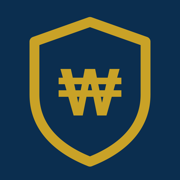
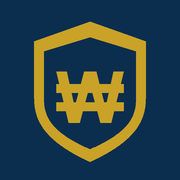
데모 모드에서 장관 탭 개방 + 스토어 문서(방침·사용안내) 추가
- 데모 중에는 장관 탭이 잠기지 않고 브리핑·로드맵까지 열린다 (심사원 진입 경로)
- privacy.html / guide.html + .nojekyll (영문 파일명 — ASC URL 필드가 한글 경로를 거부)
- 아이콘 재생성: 알파 채널 제거, 이음새 없는 국장

Changed region(s): [[0.1389, 0.0833, 0.8611, 0.9444], [0.3056, 0.3611, 0.6944, 0.6944]]

diff --git a/guide.html b/guide.html
@@ -1,0 +1,65 @@
+<!DOCTYPE html>
+<html lang="ko">
+<head>
+<meta charset="UTF-8">
+<meta name="viewport" content="width=device-width, initial-scale=1.0">
+<title>재무부 장관 — 사용 안내 · 지원</title>
+<style>
+body{font-family:-apple-system,BlinkMacSystemFont,'Apple SD Gothic Neo',sans-serif;max-width:720px;margin:0 auto;padding:32px 20px 80px;line-height:1.75;color:#191F28;background:#fff}
+h1{font-size:24px;margin:0 0 6px;letter-spacing:-.5px}
+.sub{color:#8B95A1;font-size:13.5px;margin-bottom:28px}
+h2{font-size:17px;margin:32px 0 10px;padding-top:18px;border-top:1px solid #F2F4F6}
+p,li{font-size:14.5px;color:#4E5968}
+ul,ol{padding-left:20px}
+strong{color:#191F28}
+.box{background:#F9FAFB;border-radius:12px;padding:14px 16px;font-size:14px;margin:14px 0}
+.q{font-weight:700;color:#191F28;margin-top:18px}
+a{color:#3182F6}
+code{background:#F2F4F6;border-radius:5px;padding:1px 6px;font-size:13px}
+</style>
+</head>
+<body>
+<h1>재무부 장관 — 사용 안내</h1>
+<div class="sub">내 자산을 '국정'처럼 운영하는 개인 재무 기록 앱 · 지원 문의: <a href="mailto:leoato@naver.com">leoato@naver.com</a></div>
+
+<p>매달 말 자산 화면을 캡처해 올리면, AI가 계좌별 잔액을 읽어 정리하고 전월 대비 변화를 담은 '장관 브리핑'을 써 줍니다. 모든 기록은 기기에만 저장됩니다.</p>
+
+<h2>처음 시작하기</h2>
+<ol>
+  <li><strong>둘러보기</strong> — 장관 탭 → <em>키 없이 데모로 둘러보기</em>. 가상 자료로 모든 화면을 미리 볼 수 있어요.</li>
+  <li><strong>API 키 등록</strong> — 설정(⚙) → AI API 키. Gemini·ChatGPT·Claude 중 <strong>하나만</strong> 있으면 됩니다.</li>
+  <li><strong>월말 정산</strong> — 장관 탭 → 정산 시작 → 자산 화면 캡처 선택 → 판독 결과 확인 → 브리핑 받기.</li>
+</ol>
+
+<h2>API 키는 어디서 받나요</h2>
+<ul>
+  <li><strong>Gemini</strong> — <a href="https://aistudio.google.com/apikey">aistudio.google.com/apikey</a> (키가 <code>AQ.</code> 또는 <code>AIza</code>로 시작)</li>
+  <li><strong>ChatGPT</strong> — <a href="https://platform.openai.com/api-keys">platform.openai.com/api-keys</a> (<code>sk-</code>로 시작)</li>
+  <li><strong>Claude</strong> — <a href="https://console.anthropic.com/settings/keys">console.anthropic.com</a> (<code>sk-ant-</code>로 시작)</li>
+</ul>
+<div class="box">키를 붙여넣고 <strong>검증</strong>을 누르면 어느 회사 키인지 자동으로 알아보고, 그 계정이 쓸 수 있는 <strong>가장 최신 모델</strong>을 골라 줍니다. 키는 이 기기에만 저장되며 앱 제작자에게 전송되지 않습니다.</div>
+
+<h2>자주 묻는 질문</h2>
+<div class="q">Q. 요금이 드나요?</div>
+<p>앱은 무료입니다. AI 사용료는 이용자가 등록한 본인 API 계정으로 청구됩니다(월말 정산 1회는 보통 소액). 키를 넣지 않으면 AI 기능만 잠기고 기록·통계는 그대로 씁니다.</p>
+
+<div class="q">Q. 데이터는 어디에 저장되나요?</div>
+<p>기기 안에만 저장됩니다. 서버도 계정도 없습니다. 기기를 바꾸거나 앱을 지우면 사라지니 <strong>설정 → 전체 백업(JSON)</strong>으로 파일을 보관하세요. 새 기기에서는 <strong>백업 복원</strong>으로 되돌립니다.</p>
+
+<div class="q">Q. 캡처를 올렸는데 합계가 안 맞아요.</div>
+<p>판독 확인 화면에서 숫자를 직접 고칠 수 있습니다. 합계가 캡처의 '총 자산'과 일치해야 다음으로 넘어가도록 막아 두었습니다 — 잘못된 숫자가 기록에 남지 않게 하기 위해서입니다.</p>
+
+<div class="q">Q. '키가 유효하지 않다'고 나옵니다.</div>
+<p>키가 잘린 채 복사됐거나, 사용 제한(웹사이트·IP 제한)이 걸린 키일 수 있습니다. 앱이 알려주는 문구에 원인이 함께 표시되니 그대로 따라 해 보세요. 그래도 안 되면 새 키를 발급해 주세요.</p>
+
+<div class="q">Q. 어떤 모델을 쓰나요?</div>
+<p>등록한 키의 계정에서 쓸 수 있는 모델 목록을 받아 최신·상위 모델을 자동으로 고릅니다. 모델이 단종되면 다음 요청 때 자동으로 다시 고릅니다.</p>
+
+<div class="q">Q. 데모 데이터를 지우고 싶어요.</div>
+<p>설정 → 데모 → <em>데모 데이터 지우기</em>. 내 기록만 남습니다.</p>
+
+<h2>문의</h2>
+<p>버그 제보·기능 제안: <a href="mailto:leoato@naver.com">leoato@naver.com</a><br>
+개인정보처리방침: <a href="privacy.html">privacy.html</a></p>
+</body>
+</html>

diff --git a/privacy.html b/privacy.html
@@ -1,0 +1,67 @@
+<!DOCTYPE html>
+<html lang="ko">
+<head>
+<meta charset="UTF-8">
+<meta name="viewport" content="width=device-width, initial-scale=1.0">
+<title>재무부 장관 — 개인정보처리방침</title>
+<style>
+body{font-family:-apple-system,BlinkMacSystemFont,'Apple SD Gothic Neo',sans-serif;max-width:720px;margin:0 auto;padding:32px 20px 80px;line-height:1.75;color:#191F28;background:#fff;}
+h1{font-size:24px;margin:0 0 6px;letter-spacing:-.5px}
+.date{color:#8B95A1;font-size:13px;margin-bottom:28px}
+h2{font-size:17px;margin:32px 0 10px;padding-top:18px;border-top:1px solid #F2F4F6}
+p,li{font-size:14.5px;color:#4E5968}
+ul{padding-left:20px}
+strong{color:#191F28}
+.box{background:#F9FAFB;border-radius:12px;padding:14px 16px;font-size:14px;margin:14px 0}
+</style>
+</head>
+<body>
+<h1>개인정보처리방침</h1>
+<div class="date">앱 이름: 재무부 장관 · 최종 수정일: 2026년 8월 19일</div>
+
+<p>재무부 장관(이하 "앱")은 개인 자산과 수입을 스스로 기록·점검하기 위한 도구입니다. 앱을 만든 사람은 이용자의 어떤 데이터도 수집하거나 저장하지 않습니다.</p>
+
+<h2>1. 앱이 운영하는 서버는 없습니다</h2>
+<p>앱에는 회원가입·로그인이 없고, 개발자가 운영하는 서버도 없습니다. 이용자가 입력한 모든 기록은 <strong>이용자 기기 안에만</strong> 저장됩니다.</p>
+<ul>
+  <li>수입 기록, 자산 스냅샷, 계좌 목록, 목표, 브리핑, 메모</li>
+  <li>이용자가 입력한 AI API 키</li>
+</ul>
+<div class="box">저장 위치는 기기 내부 저장소(WebView localStorage)입니다. 앱을 삭제하면 이 데이터도 함께 사라지므로, 필요하면 앱의 <strong>설정 → 전체 백업</strong>으로 파일을 따로 보관하세요.</div>
+
+<h2>2. AI 기능을 쓸 때 전송되는 정보</h2>
+<p>앱의 정산·브리핑·집무실 대화 기능은 <strong>이용자 본인이 발급한 API 키</strong>로 이용자가 선택한 AI 사업자에게 직접 요청을 보냅니다. 개발자의 서버를 거치지 않습니다.</p>
+<ul>
+  <li><strong>선택 가능한 사업자</strong>: Google(Gemini), OpenAI(ChatGPT), Anthropic(Claude) — 이용자가 키를 넣은 곳 한 곳</li>
+  <li><strong>전송되는 내용</strong>: 이용자가 정산에 올린 자산 화면 캡처 이미지, 자산·수입 숫자, 이용자가 적은 특이사항 메모</li>
+  <li><strong>전송되지 않는 것</strong>: 이름·연락처·이메일·기기 식별자·위치 (앱이 이 정보를 다루지 않습니다)</li>
+</ul>
+<p>전송된 내용의 처리·보관은 해당 AI 사업자의 정책을 따릅니다. 각 사업자의 개인정보처리방침을 확인하세요. AI 기능을 쓰지 않으면(키를 넣지 않으면) 어떤 데이터도 기기 밖으로 나가지 않습니다.</p>
+
+<h2>3. 수집하지 않는 것</h2>
+<ul>
+  <li>광고 식별자, 분석·추적 도구를 일절 사용하지 않습니다</li>
+  <li>제3자에게 데이터를 판매·공유하지 않습니다</li>
+  <li>이용자를 식별할 수 있는 계정 정보를 만들지 않습니다</li>
+</ul>
+
+<h2>4. 사진 접근</h2>
+<p>월말 정산에서 자산 화면 캡처를 올릴 때만 사진 선택 화면이 열립니다. 이용자가 직접 고른 이미지만 앱이 읽으며, 사진 보관함 전체를 읽거나 따로 저장하지 않습니다.</p>
+
+<h2>5. 미성년자</h2>
+<p>앱은 특정 연령대를 겨냥하지 않으며, 아동의 개인정보를 의도적으로 수집하지 않습니다. 애초에 개발자가 어떤 이용자 정보도 수집하지 않습니다.</p>
+
+<h2>6. 이용자의 권리</h2>
+<p>모든 데이터가 기기에만 있으므로, 삭제·수정·내보내기를 이용자가 직접 완전히 통제합니다.</p>
+<ul>
+  <li>개별 기록 삭제: 각 화면에서 직접 삭제</li>
+  <li>전체 삭제: 설정 → 전체 삭제</li>
+  <li>내보내기: 설정 → 전체 백업(JSON) / 자산 CSV 내보내기</li>
+  <li>API 키 삭제: 설정 → 키 삭제</li>
+</ul>
+
+<h2>7. 문의</h2>
+<p>문의: <a href="mailto:leoato@naver.com">leoato@naver.com</a></p>
+<p style="color:#8B95A1;font-size:13px;margin-top:28px">본 방침이 변경되면 이 페이지에 수정일과 함께 공지합니다.</p>
+</body>
+</html>

diff --git a/index.html b/index.html
@@ -2,7 +2,7 @@
 <html lang="ko">
 <head>
 <meta charset="UTF-8">
-<meta name="viewport" content="width=device-width, initial-scale=1.0, viewport-fit=cover">
+<meta name="viewport" content="width=device-width, initial-scale=1.0, viewport-fit=cover, user-scalable=no">
 <meta name="apple-mobile-web-app-capable" content="yes">
 <meta name="apple-mobile-web-app-status-bar-style" content="default">
 <meta name="apple-mobile-web-app-title" content="재무부장관">
@@ -408,6 +408,13 @@ textarea.inp{resize:none;height:86px;font-size:13.5px;}
 /* toast */
 .toast{position:fixed;bottom:96px;left:50%;transform:translateX(-50%) translateY(10px);background:var(--ink);color:#fff;border-radius:14px;padding:12px 20px;font-size:13px;font-weight:600;z-index:99;opacity:0;transition:all .22s;pointer-events:none;max-width:86%;text-align:center;}
 .toast.show{opacity:1;transform:translateX(-50%) translateY(0);}
+
+/* ══ iOS 보정 — 사파리/WKWebView에서만 적용 ══
+   입력 글자가 16px 미만이면 포커스 때 화면이 확대된다. 셀렉터 특이성에 밀리지 않게 !important로 못 박는다. */
+@supports (-webkit-touch-callout: none){
+  input, textarea, select, .inp, textarea.inp, .ext-r input{ font-size:max(16px,1em) !important; }
+  body{ -webkit-text-size-adjust:100%; }
+}
 </style>
 </head>
 <body>
@@ -2451,7 +2458,7 @@ function targetYm(){
 }
 function renderMin(){
   const b = $('minBody');
-  if(!LS.get('mf_key')){
+  if(!LS.get('mf_key') && !isDemo()){
     b.innerHTML = `<div class="card lock-card">
       <div class="lock-ic"><svg viewBox="0 0 24 24" style="width:38px;height:38px;stroke:var(--blue);fill:none;stroke-width:1.8"><rect x="5" y="11" width="14" height="9" rx="2"/><path d="M8 11V7a4 4 0 0 1 8 0v4"/></svg></div>
       <div class="lock-t">장관 임명이 필요합니다</div>
@@ -2474,7 +2481,13 @@ function renderMin(){
   const monthEnd = (()=>{ const [y,m]=tym.split('-').map(Number); return `${y}-${String(m).padStart(2,'0')}-${String(new Date(y,m,0).getDate()).padStart(2,'0')}`; })();
   const dEnd = dday(monthEnd);
   let h = '';
-  if(!done){
+  if(!LS.get('mf_key')){
+    h += `<div class="cta-card">
+      <div class="cta-t">데모로 둘러보는 중 <span class="badge">예시 자료</span></div>
+      <div class="cta-d">아래 브리핑·로드맵은 앱을 소개하기 위한 가상 자료예요.<br>내 자산으로 실제 정산을 하려면 API 키만 등록하면 됩니다.</div>
+      <button class="btn" onclick="openSettings()">API 키 등록하고 시작하기</button>
+    </div>`;
+  } else if(!done){
     h += `<div class="cta-card">
       <div class="cta-t">${ymLabel(tym)} 정산</div>
       <div class="cta-d">${dEnd>0?`말일까지 D-${dEnd} · 말일(또는 다음날 새벽) 캡처 기준으로 정산해요`:dEnd===0?'오늘이 말일! 자산 캡처를 찍고 정산하세요':'말일이 지났어요 — 말일 즈음 찍은 캡처로 정산하세요'}</div>
